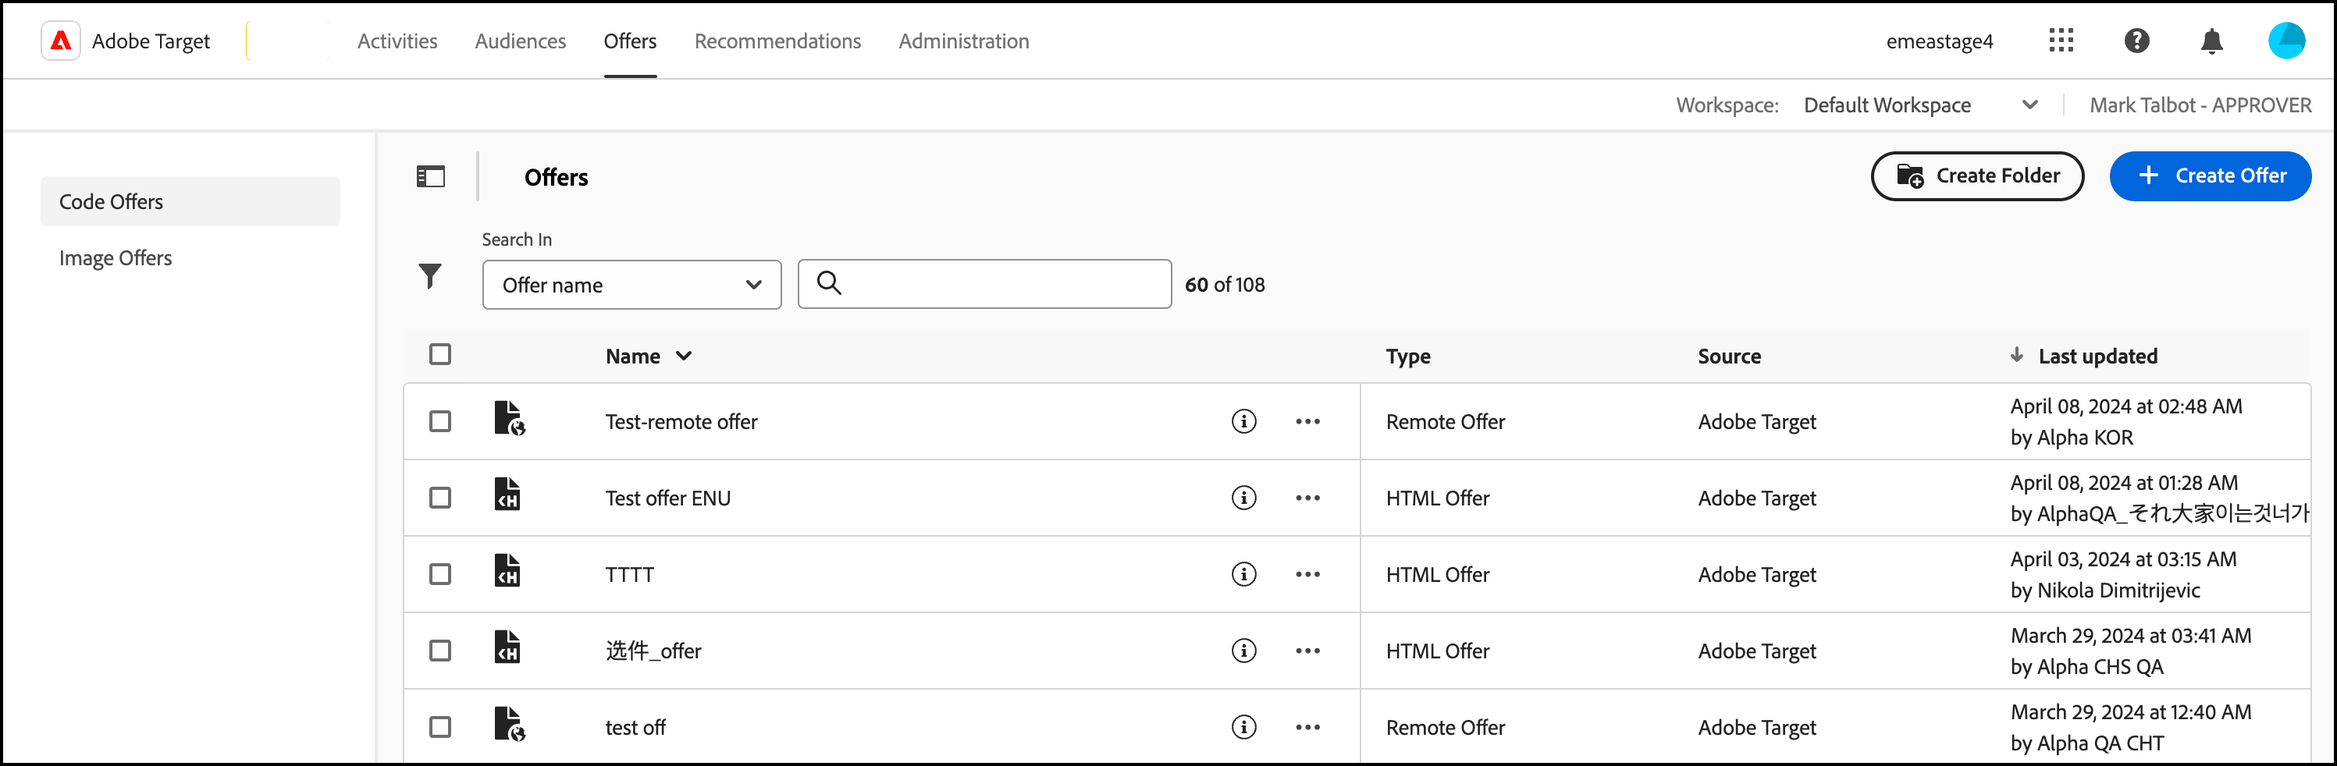
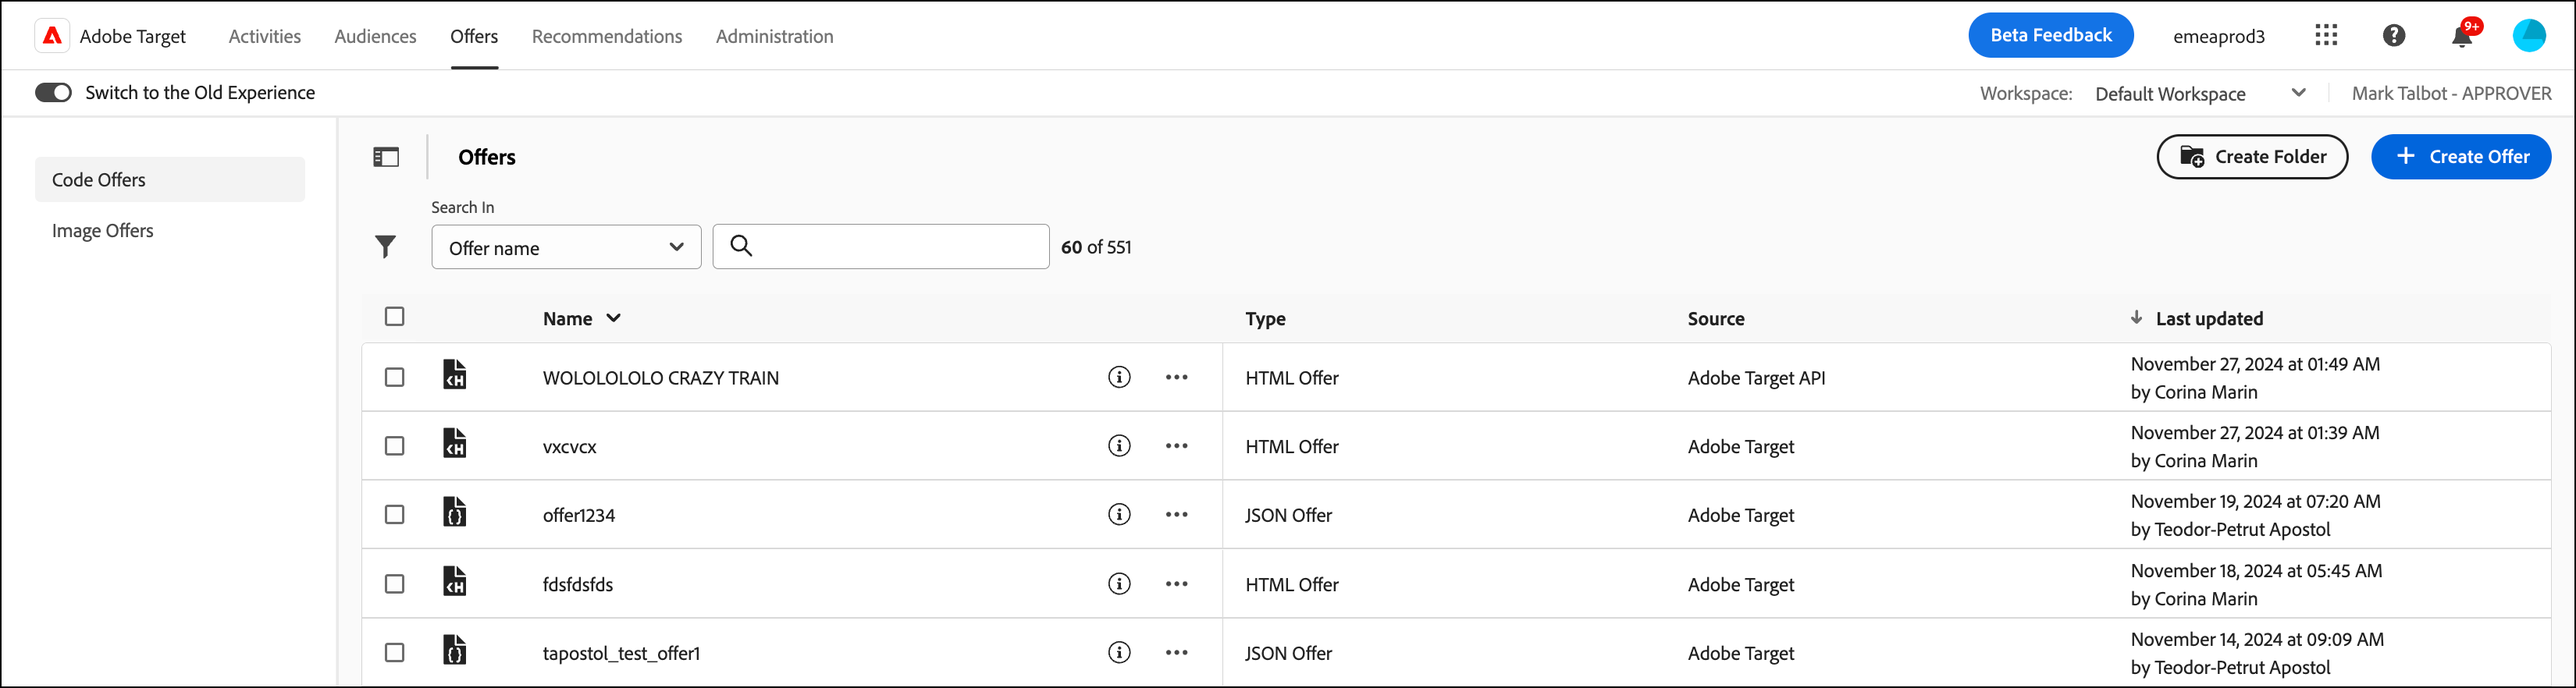
Go live?

diff --git a/help/main/r-release-notes/release-notes.md b/help/main/r-release-notes/release-notes.md
@@ -13,6 +13,26 @@ These release notes provide information about features, enhancements, and fixes 
 
 (The issue numbers in parentheses are for internal [!DNL Adobe] use.)
 
+## [!UICONTROL Offers Library] user interface update (January 9, 2025)
+
+To enhance the user experience for [!DNL Adobe Target] users, this release updates the [!UICONTROL Offers Library] user interface. Using the latest [!DNL Adobe Spectrum] design system, this update standardizes inconsistent design patterns and introduces new enhancements, including the following:
+
+* **Bulk offer management**: Select and delete or move multiple offers simultaneously.
+
+* **[!UICONTROL Code Editor] upgrades**: Refreshed HTML and JSON editors with syntax highlighting and line numbering.
+
+* **Improved offer cards**: Enhanced quick information and detail cards for easier information access.
+
+* **Persistent search and filters**: Adds session-persistent search and filter options.
+
+Starting January 9, 2025, all [!DNL Target] customers will gain access to the new UI, with the option to switch back to the current version of the UI if needed.
+
+For more information see [Offers](/help/main/c-experiences/c-manage-content/manage-content.md) and the sub-articles in this section.
+
+Here's a short video that highlights the changes in this release:
+
+![Offers UI refresh video](/help/main/r-release-notes/assets/offers-video-v2.gif)
+
 ## [!DNL Adobe Experience Platform Web SDK] `__view__` scope optimization (October 22, 2024)
 
 Between July 22, 2024 and August 15, 2024, the [!DNL Target] team optimized the `__view__` scope, enhancing the accuracy of activity impression, visit, and visitor reporting. This optimization aims to automatically capture reporting data for auto-rendered propositions and should be transparent to most accounts.

diff --git a/help/main/r-release-notes/target-release-notes.md b/help/main/r-release-notes/target-release-notes.md
@@ -9,7 +9,7 @@ exl-id: f2783042-f6ee-4f73-b487-ede11d55d530
 
 This article contains prerelease information for upcoming [!DNL Adobe Target] releases, including SDKs, APIs, and JavaScript libraries.
 
-**Last Updated: December 11, 2024**
+**Last Updated: January 7, 2025**
 
 >[!NOTE]
 >
@@ -21,7 +21,7 @@ This article contains prerelease information for upcoming [!DNL Adobe Target] re
 
 To enhance the user experience for [!DNL Adobe Target] users, this release updates the [!UICONTROL Offers Library] user interface. Using the latest [!DNL Adobe Spectrum] design system, this update standardizes inconsistent design patterns and introduces new enhancements, including the following:
 
-* **Bulk offer management**: Select and delete multiple offers simultaneously.
+* **Bulk offer management**: Select and delete or move multiple offers simultaneously.
 
 * **[!UICONTROL Code Editor] upgrades**: Refreshed HTML and JSON editors with syntax highlighting and line numbering.
 
@@ -30,6 +30,8 @@ To enhance the user experience for [!DNL Adobe Target] users, this release updat
 * **Persistent search and filters**: Adds session-persistent search and filter options.
 
 Starting January 9, 2025, all [!DNL Target] customers will gain access to the new UI, with the option to switch back to the current version of the UI if needed.
+
+For more information see [Offers](/help/main/c-experiences/c-manage-content/manage-content.md) and the sub-articles in this section.
 
 Here's a short video that highlights the changes in this release:
 

diff --git a/help/main/c-experiences/c-manage-content/manage-content.md b/help/main/c-experiences/c-manage-content/manage-content.md
@@ -13,6 +13,10 @@ To display the [!UICONTROL Offers] library, click the **[!UICONTROL Offers]** ta
 
 ![Offers page](/help/main/c-experiences/c-manage-content/assets/offers-page-new.png)
 
+>[!NOTE]
+>
+>This article documents the updated [!UICONTROL Offers] UI released January 9, 2025. If you prefer to use the legacy [!UICONTROL Offers] UI, toggle [!UICONTROL Switch to the Old Experience] to the on position. 
+
 The [!UICONTROL Offers] library contains offers that have been set up via [!DNL Target Standard/Premium], [!DNL Target Classic], [!DNL Adobe Experience Manager] (AEM), [!DNL Adobe Mobile Services] (AMS), and APIs. Offers created in [!DNL Target Classic] or other solutions are editable in [!DNL Target Standard/Premium].
 
 The [!UICONTROL Offers] library provides an overview of all code and image offers and lets you perform various actions:
